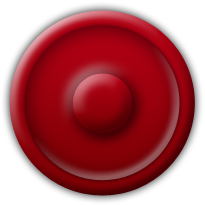
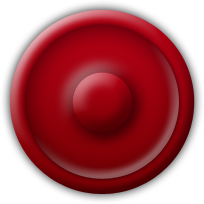
Exporting player 1 paddle from PSD. Retina support for it.

diff --git a/src/airhockey/views/main_menu_view.cc b/src/airhockey/views/main_menu_view.cc
@@ -200,7 +200,7 @@ void MainMenuView::ButtonPressed(Button *button) {
 // private
 
 void MainMenuView::PressedStart() {
-  bool is_iphone = true; // TODO UI_USER_INTERFACE_IDIOM() == UIUserInterfaceIdiomPhone;
+  bool is_iphone = false; // TODO UI_USER_INTERFACE_IDIOM() == UIUserInterfaceIdiomPhone;
 
   LocalStore::SetInteger(num_players_select_->selected_value(), LS_NUM_PLAYERS);
   LocalStore::SetInteger(num_pucks_select_->selected_value(), LS_NUM_PUCKS);
